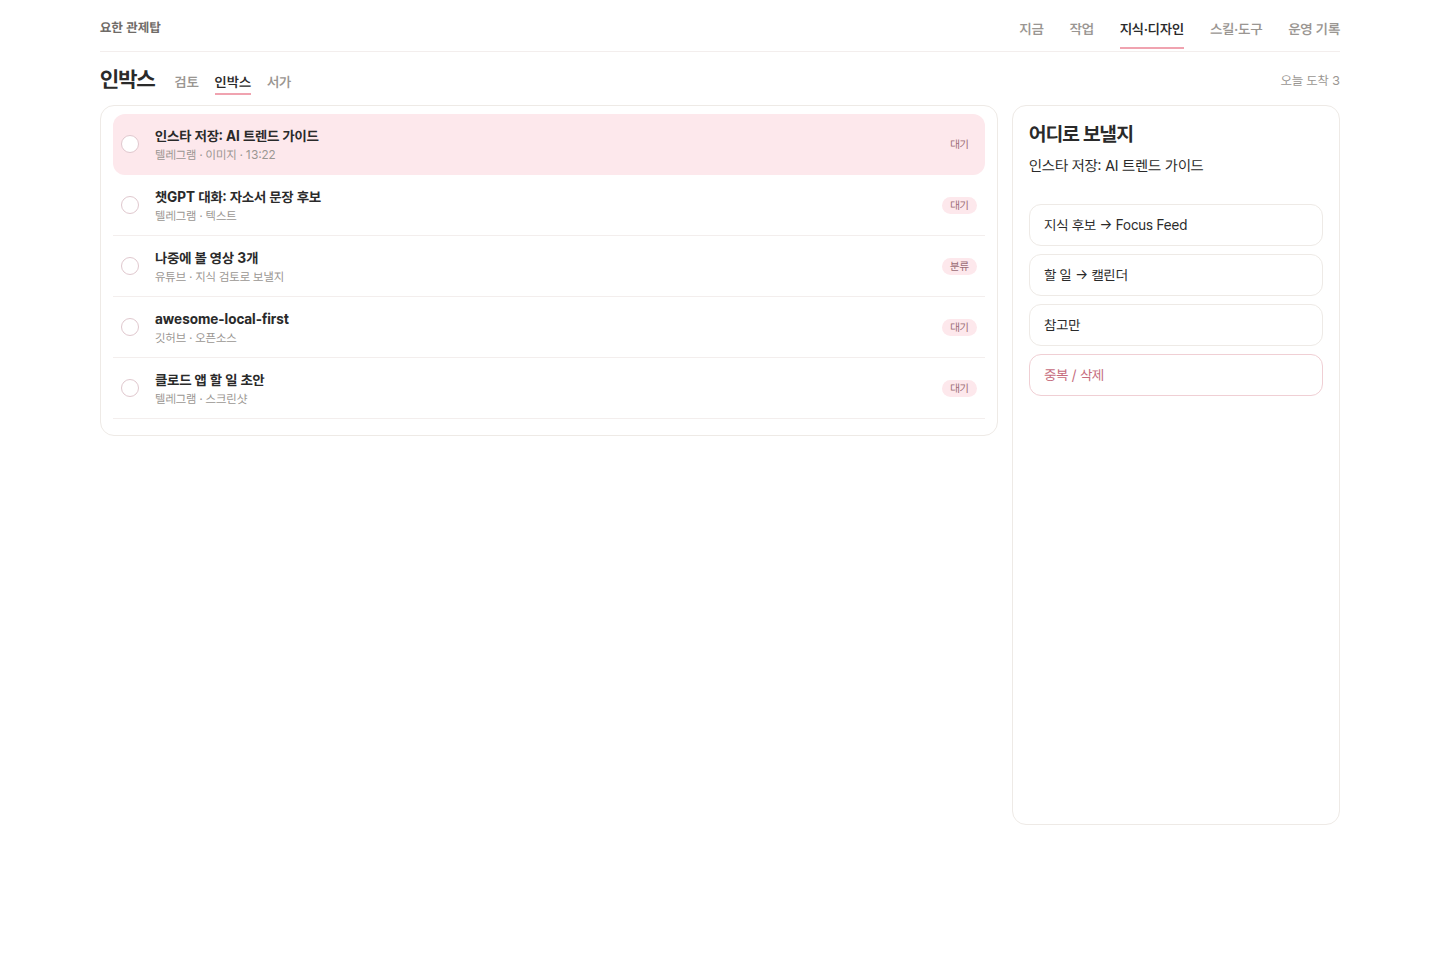
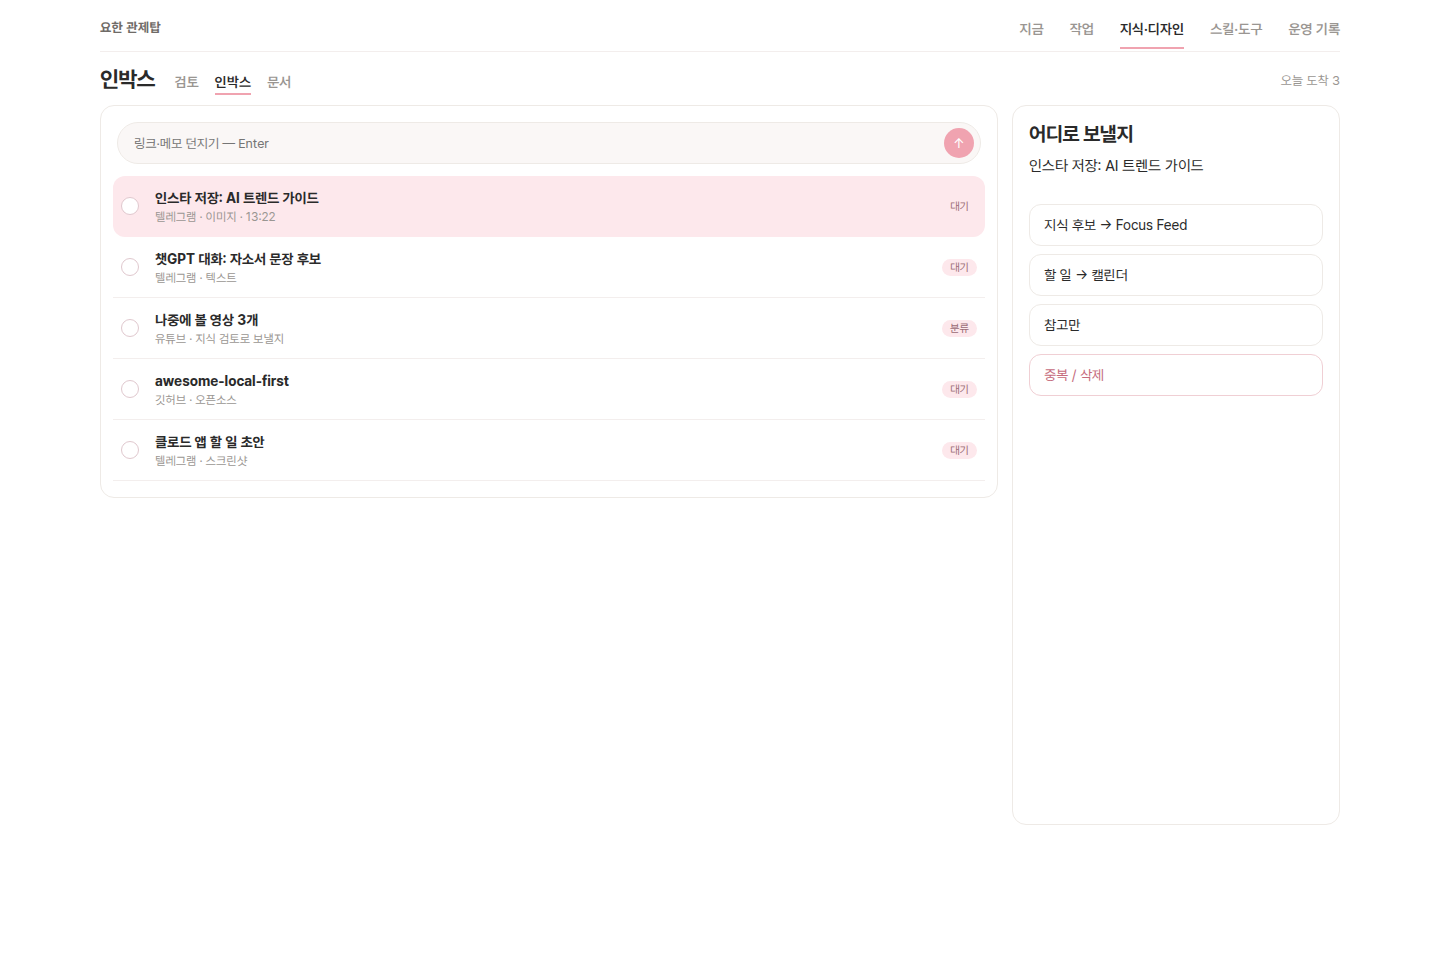
docs: 시안 서가를 문서로 바꾸고 던지기·새 기록을 드러낸다

Changed region(s): [[0.0938, 0.1224, 0.2188, 0.4898], [0.6562, 0.1224, 0.6875, 0.1837], [0.1875, 0.0612, 0.2188, 0.0918]]

diff --git a/docs/prototypes/four-lanes/index.html b/docs/prototypes/four-lanes/index.html
@@ -314,7 +314,7 @@
             <div class="sib">
               <a class="on" href="?v=review">검토</a>
               <a href="?v=inbox">인박스</a>
-              <a href="?v=shelf">서가</a>
+              <a href="?v=shelf">문서</a>
             </div>
           </div>
           <div class="meta">대기 4</div>
@@ -325,7 +325,7 @@
               <button class="row sel" type="button"><span class="circ"></span><span><span class="ttl">로컬 RAG를 파일 정본으로 유지하는 법</span><div class="sub">유튜브 18:42 · NotebookLM 통과</div></span><span class="tag">검토 대기</span></button>
               <button class="row" type="button"><span class="circ"></span><span><span class="ttl">1인 개발자의 지식 보관 실패 패턴</span><div class="sub">유튜브 12:05 · 타임스탬프 부족</div></span><span class="tag" style="color:#6b6662;background:#f1eeea">보류</span></button>
               <button class="row" type="button"><span class="circ"></span><span><span class="ttl">온톨로지를 위키처럼 쓰지 않는 이유</span><div class="sub">유튜브 41:10 · 품질 검사 중</div></span><span class="tag">대기</span></button>
-              <button class="row" type="button"><span class="circ"></span><span><span class="ttl">이력서 문장을 증거 문장으로 바꾸는 법</span><div class="sub">유튜브 07:22 · 서가 연결 후보</div></span><span class="tag">검토 대기</span></button>
+              <button class="row" type="button"><span class="circ"></span><span><span class="ttl">이력서 문장을 증거 문장으로 바꾸는 법</span><div class="sub">유튜브 07:22 · 문서 연결 후보</div></span><span class="tag">검토 대기</span></button>
             </div>
           </div>
           <aside class="side">
@@ -351,13 +351,17 @@
             <div class="sib">
               <a href="?v=review">검토</a>
               <a class="on" href="?v=inbox">인박스</a>
-              <a href="?v=shelf">서가</a>
+              <a href="?v=shelf">문서</a>
             </div>
           </div>
           <div class="meta">오늘 도착 3</div>
         </div>
         <div class="stage">
           <div class="board" style="padding:8px 12px 16px">
+            <div class="quick" style="margin:8px 4px 12px">
+              <input placeholder="링크·메모 던지기 — Enter" aria-label="인박스 던지기" />
+              <button class="go" type="button" aria-label="넣기">↑</button>
+            </div>
             <div class="list">
               <button class="row sel" type="button"><span class="circ"></span><span><span class="ttl">인스타 저장: AI 트렌드 가이드</span><div class="sub">텔레그램 · 이미지 · 13:22</div></span><span class="tag">대기</span></button>
               <button class="row" type="button"><span class="circ"></span><span><span class="ttl">챗GPT 대화: 자소서 문장 후보</span><div class="sub">텔레그램 · 텍스트</div></span><span class="tag">대기</span></button>
@@ -382,13 +386,14 @@
       <section class="view" id="shelf">
         <div class="toolbar">
           <div style="display:flex;align-items:baseline">
-            <div class="month">서가</div>
+            <div class="month">문서</div>
             <div class="sib">
               <a href="?v=review">검토</a>
               <a href="?v=inbox">인박스</a>
-              <a class="on" href="?v=shelf">서가</a>
+              <a class="on" href="?v=shelf">문서</a>
             </div>
           </div>
+          <button class="add" type="button">+ 새 기록</button>
         </div>
         <div class="stage" style="grid-template-columns: 240px minmax(0,1fr)">
           <div class="board folders" style="padding:10px">
